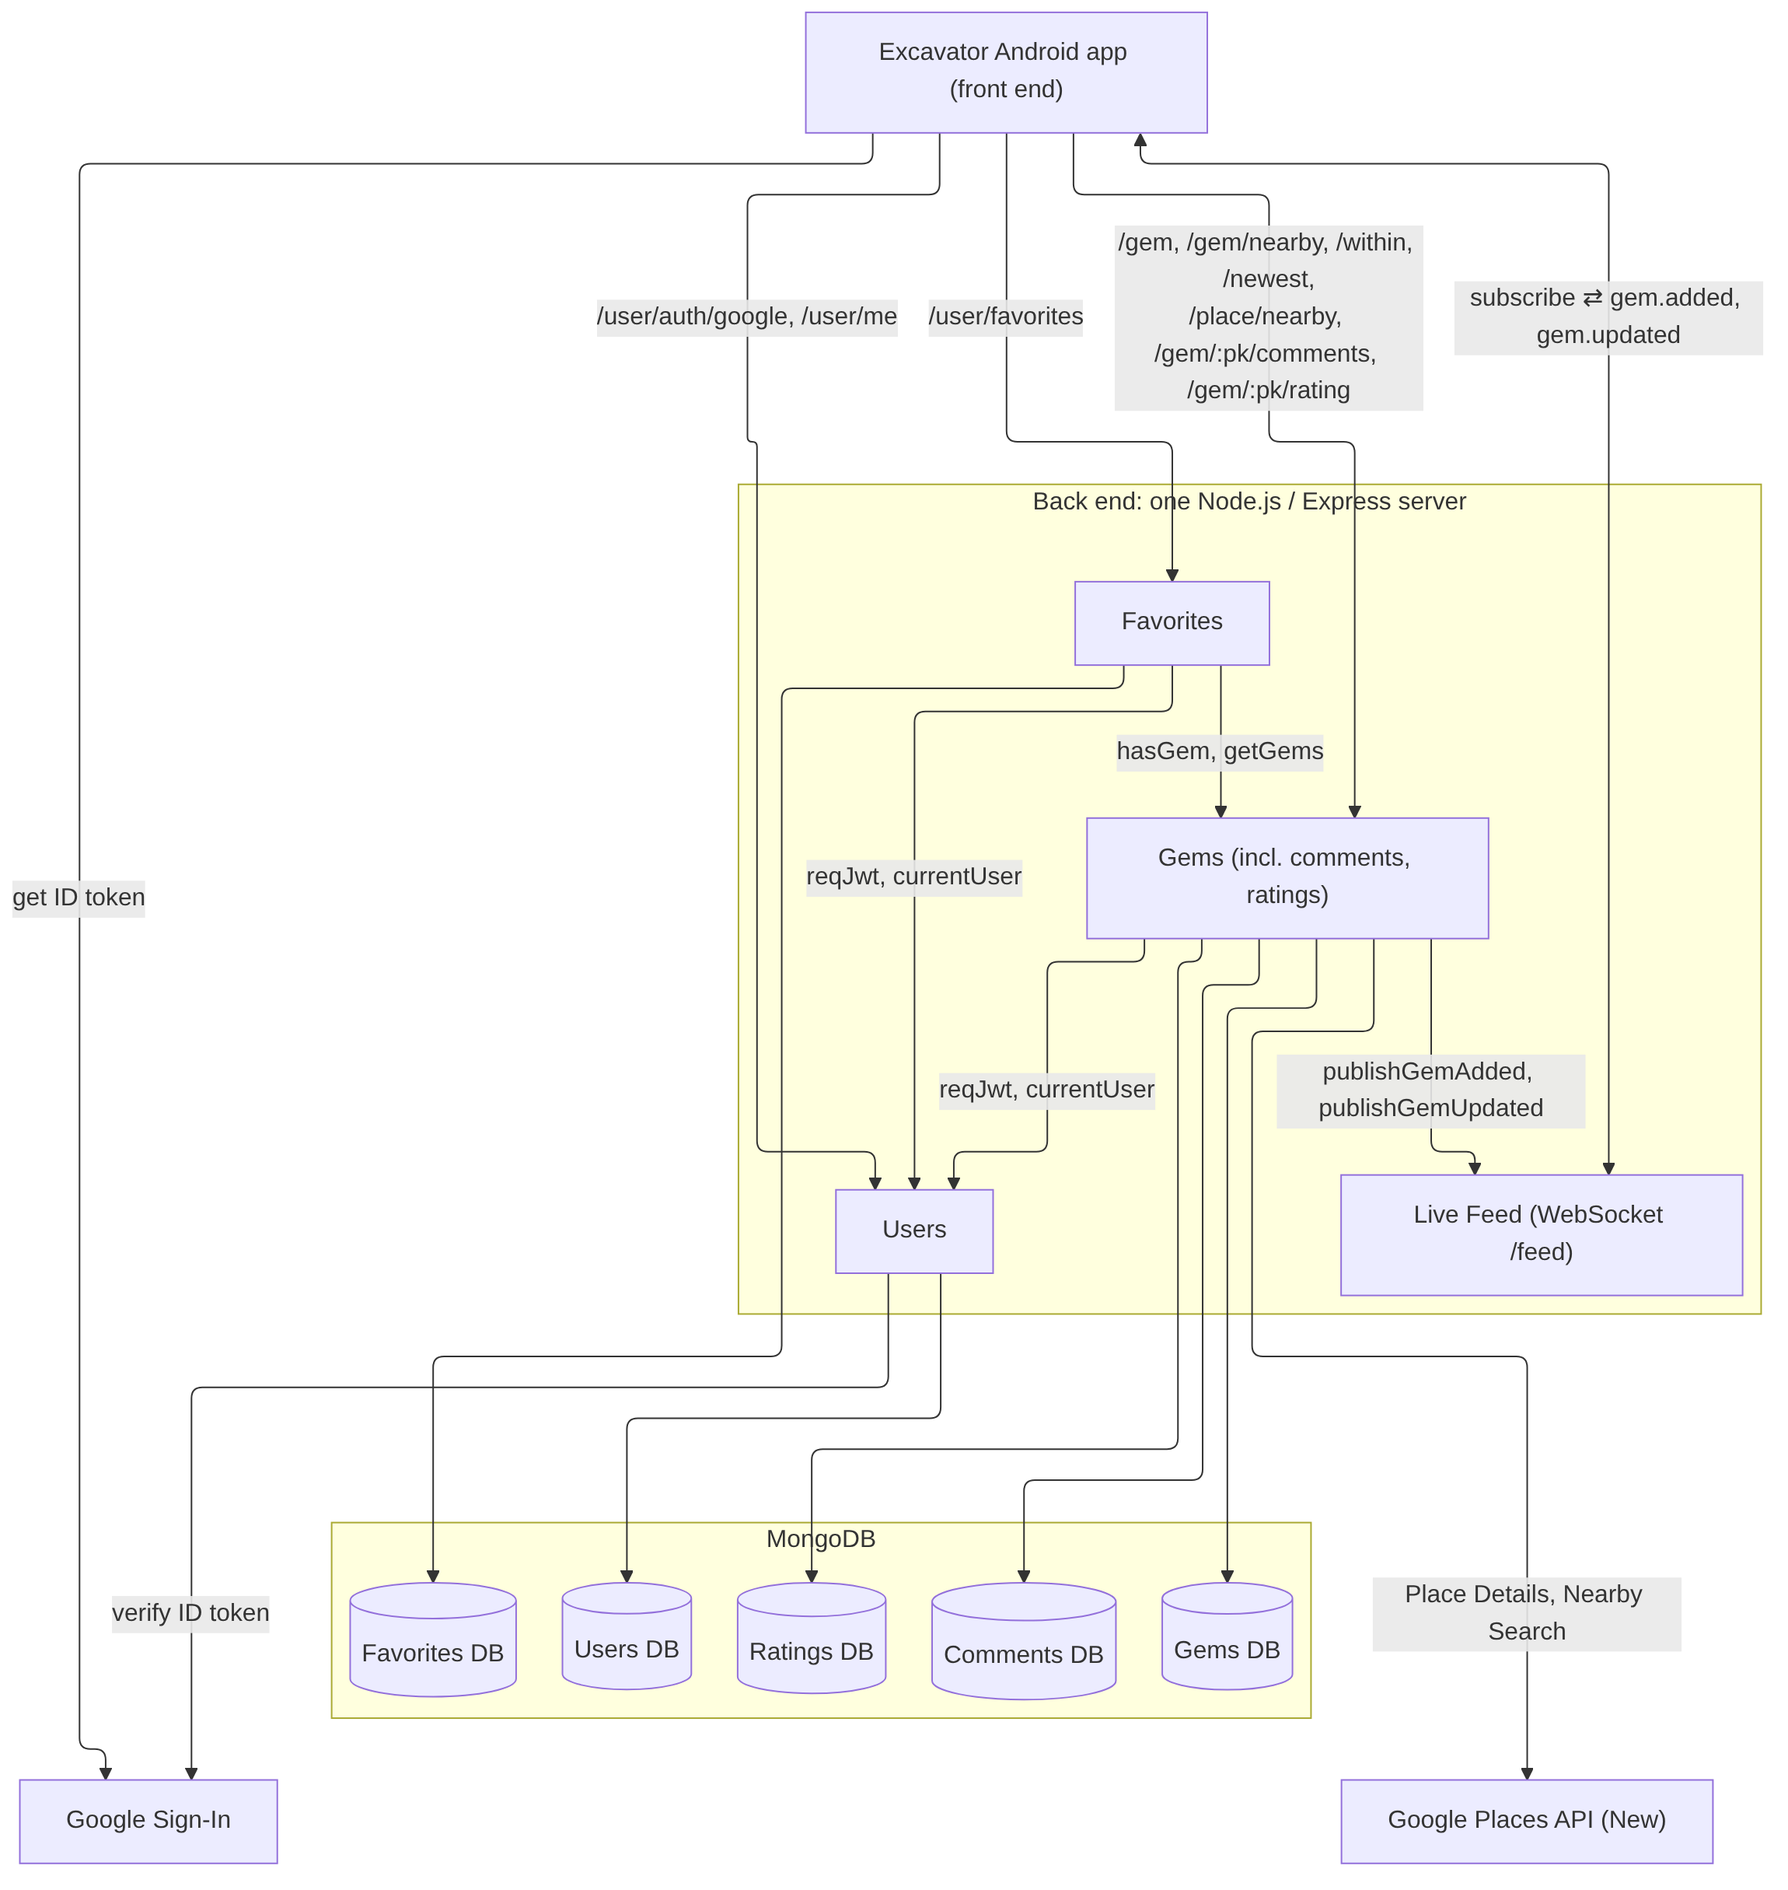
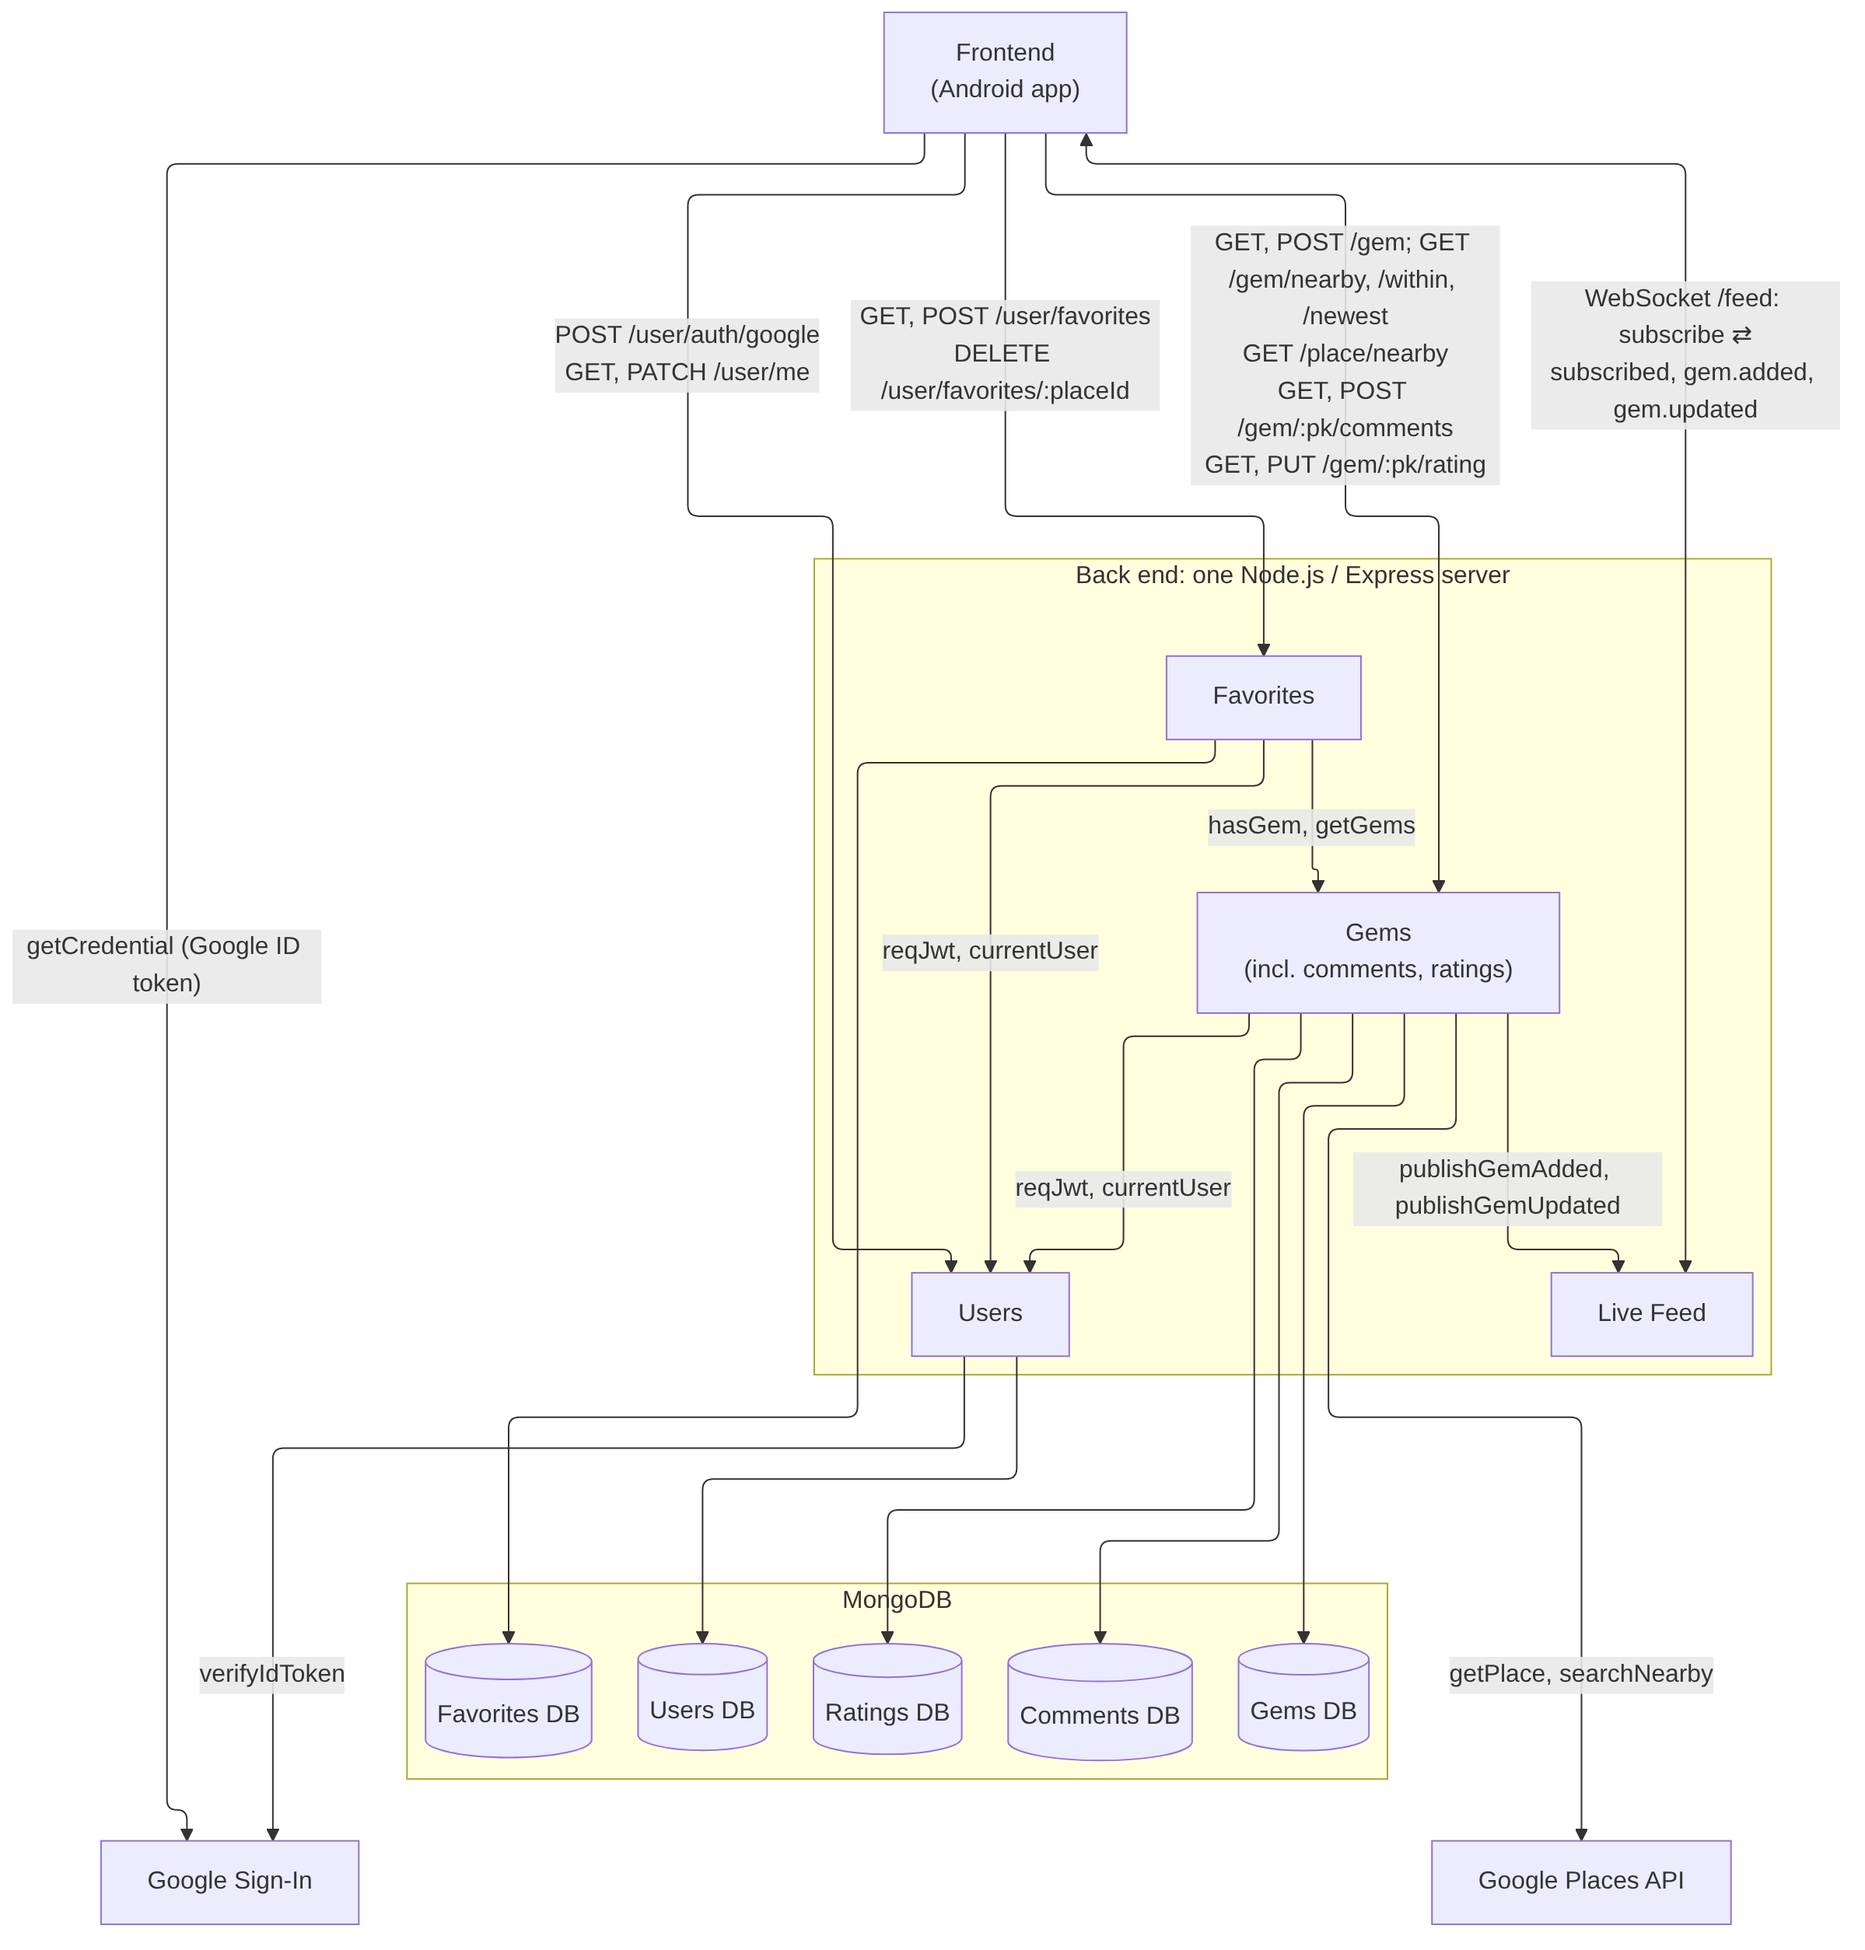
docs: redo dependency and sequence diagrams to course conventions

diff --git a/documentation/Requirements_and_Design.md b/documentation/Requirements_and_Design.md
@@ -14,6 +14,7 @@
 | 2026-11-03 | 4.1 | Corrected the interfaces to match the code: `GET /user/me` returns `name` as an object; feed messages over 1024 bytes close the connection; rating and favorites routes answer 401 before 405; added default and maximum values (radius, limit, comment and display-name length) and the missing 400, 401 and 404 responses. |
 | 2026-11-04 | 4.1 | `GET /place/nearby` now takes several place types in `type`, so the app can search with all the filters the user selected. |
 | 2026-11-04 | 3.1, 3.2, 3.3, 3.4 | Updated the features, use case diagram, actors and use cases to match the implemented app: added Favorites, Browse Gems on the map, Choose a place to add, Sign out and Edit display name; removed the nicheness API (nicheness is computed by the Gem Score formula) and "Authenticate API calls" (the app does it on every request; it is not a user goal); described the Google actors. |
+| 2026-11-04 | 4.5, 4.6 | Redid the diagrams to the course conventions: every synchronous call has a labelled return, WebSocket messages are asynchronous, database calls are the real queries, error cases are in `alt` frames, values flow from earlier messages, and lifeline and actor names match 3.3 and 4.5 (Frontend, Google Places API, Signed-in User, Guest). |
 
 ---
 
@@ -235,10 +236,16 @@ Excavator is an app designed to let you find niche, high quality locations in yo
 ### **4.5. Dependencies Diagram**
 ![Dependencies diagram](images/dependencies.png)
 
-Boxes are components, cylinders are MongoDB collections, and an arrow A → B means A calls B through the interfaces on the arrow (listed in 4.1). The app and the Live Feed call each other (A ↔ B): the app sends `subscribe` messages, and the feed pushes `gem.added` and `gem.updated` to the app. All four back-end components run in one Node.js server; Gems, Favorites and Users call each other's interfaces directly in code. Only the back end calls Google Places, so the API key stays on the server. The diagram source is `documentation/diagrams/dependencies.mmd` (Mermaid).
+Boxes are components (the Frontend, the four back-end components and the two Google services) and cylinders are the MongoDB collections. An arrow A → B means A calls B through the interfaces written on it (defined in 4.1). The Frontend and the Live Feed call each other (A ↔ B) over a WebSocket: the Frontend sends `subscribe`, and the Live Feed pushes `subscribed`, `gem.added` and `gem.updated` back. The four back-end components run in one Node.js server and call each other's interfaces directly in code. The Frontend never talks to a database; only the back end calls Google Places, so the API key stays on the server. Source: `documentation/diagrams/dependencies.mmd` (Mermaid).
 
 ### **4.6. Use Case Sequence Diagram (5 Most Major Use Cases)**
-Lifelines are the components and databases of the dependencies diagram (4.5); messages are their interfaces from 4.1. Error replies are shown where they change what the user sees. The diagram sources are in `documentation/diagrams/`.
+The lifelines are the actors of 3.3 and the components of the dependencies diagram (4.5); the user only talks to the Frontend. Messages are the interfaces of 4.1, and database calls are written as the MongoDB queries the back end runs. Notation:
+- A **solid arrow with a filled head** is a synchronous call; its result comes back on the **dashed arrow** below it, labelled with what is returned (HTTP status and body for REST calls).
+- A **solid arrow with an open head** is an asynchronous message with no reply: WebSocket messages between the Frontend and the Live Feed, and updates the Frontend shows without the user asking.
+- Every value a message uses comes from an earlier message (e.g. the place name picked from `GET /place/nearby` is what `POST /gem` adds). Error cases are shown in `alt` frames.
+- `reqJwt` is shown as one call and return: it checks the login token and loads the user, and answers 401 itself if the token is invalid (see 4.1, Users).
+
+Sources: `documentation/diagrams/`.
 
 1. [**View a Gem**](#uc1)\
 ![View a Gem](images/uc1_view_a_gem.png)
